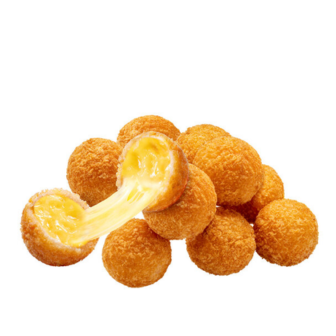
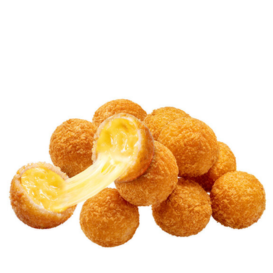
initials 6

Changed region(s): [[0.0293, 0.3223, 0.9963, 0.9084]]

diff --git a/index.html b/index.html
@@ -172,20 +172,20 @@
 					<!-- Slider-banner start -->
 					<div class="slider-banner">
 						<div class="single-banner banner-1">
-							<a class="banner-thumb" href="https://wa.me/+918652188668"><img src="img/product/1.png" alt="" /></a>
+							<a class="banner-thumb" href="https://wa.me/+918652188668"><img src="img/product/99.png" alt="" /></a>
 							<span class="pro-label new-label">new</span>
 							
 							<div class="banner-brief">
 								<h2 class="banner-title"><a href="#">Almonds</a></h2>
-								<p class="mb-0">Furniture</p>
+								<p class="mb-0"></p>
 							</div>
 							<a href="https://wa.me/+918652188668" class="button-one font-16px" data-text="Buy now">Buy now</a>
 						</div>
 						<div class="single-banner banner-2">
-							<a class="banner-thumb" href="https://wa.me/+918652188668"><img src="img/banner/1.jpg" alt="" /></a>
+							<a class="banner-thumb" href="https://wa.me/+918652188668"><img src="img/banner/1.png" alt="" /></a>
 							<div class="banner-brief">
-								<h2 class="banner-title"><a href="#">New Product 2021</a></h2>
-								<p class="hidden-md hidden-sm d-none d-md-block">Lorem Ipsum is simply dummy text of the printing and types sate industry. Lorem Ipsum has been the industry.</p>
+								<h2 class="banner-title"><a href="#">Cheese Balls</a></h2>
+								<p class="hidden-md hidden-sm d-none d-md-block"></p>
 								<a href="https://wa.me/+918652188668" class="button-one font-16px" data-text="Buy now">Buy now</a>
 							</div>
 						</div>
@@ -424,14 +424,14 @@
 								<div class="discount-product">
 									<img src="img/discount/1.png" alt="" />
 									<div class="discount-img-brief">
-										<div class="onsale">
-											<span class="onsale-text">On Sale</span>
+										<div 
+											class=""></span>
 											
 										</div>
 										<div class="discount-info">
-											<h1 class="text-dark-red d-none d-md-block">Discount 50%</h1>
+											<h1 class="text-dark-red d-none d-md-block"></h1>
 											
-											<a href="https://wa.me/+918652188668" class="button-one font-16px style-3 text-uppercase mt-md-5" data-text="Buy now">Buy now</a>
+											<a href="https://wa.me/+918652188668"  data-text=""></a>
 										</div>
 									</div>
 								</div>
@@ -442,14 +442,14 @@
 								<div class="discount-product">
 									<img src="img/discount/2.png" alt="" />
 									<div class="discount-img-brief">
-										<div class="onsale">
-											<span class="onsale-text">On Sale</span>
+										<div >
+											
 											
 										</div>
 										<div class="discount-info">
-											<h1 class="text-dark-red d-none d-md-block">Discount 50%</h1>
+											<h1 class="text-dark-red d-none d-md-block"></h1>
 											
-											<a href="https://wa.me/+918652188668" class="button-one font-16px style-3 text-uppercase mt-md-5" data-text="Buy now">Buy now</a>
+											<a href="https://wa.me/+918652188668"  data-text="Buy now"></a>
 										</div>
 									</div>
 								</div>
@@ -460,14 +460,14 @@
 								<div class="discount-product">
 									<img src="img/discount/3.jpg" alt="" />
 									<div class="discount-img-brief">
-										<div class="onsale">
-											<span class="onsale-text">On Sale</span>
+										<div class="">
+											<span class=""></span>
 					
 										</div>
-										<div class="discount-info">
-											<h1 class="text-dark-red d-none d-md-block">Discount 50%</h1>
+										<div >
+											
 					
-											<a href="https://wa.me/+918652188668" class="button-one font-16px style-3 text-uppercase mt-md-5" data-text="Buy now">Buy now</a>
+											<a href="https://wa.me/+918652188668"  data-text="Buy now"></a>
 										</div>
 									</div>
 								</div>
@@ -478,14 +478,14 @@
 								<div class="discount-product">
 									<img src="img/discount/4.jpg" alt="" />
 									<div class="discount-img-brief">
-										<div class="onsale">
-											<span class="onsale-text">On Sale</span>
+										<div class="">
+											<span class="onsale-text"></span>
 					
 										</div>
-										<div class="discount-info">
-											<h1 class="text-dark-red d-none d-md-block">Discount 50%</h1>
+										<div class="">
+											<h1 class=""></h1>
 					
-											<a href="https://wa.me/+918652188668" class="button-one font-16px style-3 text-uppercase mt-md-5" data-text="Buy now">Buy now</a>
+											<a href="https://wa.me/+918652188668"  data-text=""></a>
 										</div>
 									</div>
 								</div>
@@ -1089,7 +1089,7 @@
 									<h3 class="footer-title  title-border">Contact Us</h3>
 									<ul class="footer-contact">
 										<li><span>Address :</span>Tripathi Bhavan Building, Krishna Kunj, 4,Aarey Rd, Piramal Nagar Goregaon West, Mumbai</li>
-										<li><span>Cell-Phone :</span>8652188668 / 9819792224 / 9082402981</li>
+										<li><span>Cell-Phone :</span>8652188668 / 9819792224 </li>
 									
 									</ul>
 								</div>

diff --git a/contact.html b/contact.html
@@ -142,31 +142,12 @@
 									<ul>
 										<li><a href="index.html">home</a>
 											<ul>
-												<li><a href="index.html">Home Version 1</a></li>
-												<li><a href="index-2.html">Home Version 2</a></li>
+												
 											</ul>
 										</li>
-										<li><a href="shop.html">products</a></li>
-										<li><a href="shop-sidebar.html">accesories</a></li>
-										<li><a href="shop-list.html">lookbook</a></li>
-										<li><a href="blog.html">blog</a></li>
-										<li><a href="#">pages</a>
+										
 											<ul>
-												<li><a href="shop.html">Shop</a></li>
-												<li><a href="shop-sidebar.html">Shop Sidebar</a></li>
-												<li><a href="shop-list.html">Shop List</a></li>
-												<li><a href="single-product.html">Single Product</a></li>
-												<li><a href="single-product-sidebar.html">Single Product Sidebar</a></li>
-												<li><a href="cart.html">Shopping Cart</a></li>
-												<li><a href="wishlist.html">Wishlist</a></li>
-												<li><a href="checkout.html">Checkout</a></li>
-												<li><a href="order.html">Order</a></li>
-												<li><a href="login.html">login / Registration</a></li>
-												<li><a href="my-account.html">My Account</a></li>
-												<li><a href="404.html">404</a></li>
-												<li><a href="blog.html">Blog</a></li>
-												<li><a href="single-blog.html">Single Blog</a></li>
-												<li><a href="single-blog-sidebar.html">Single Blog Sidebar</a></li>
+												
 												<li><a href="about.html">About Us</a></li>
 												<li><a href="contact.html">Contact</a></li>
 											</ul>
@@ -257,7 +238,7 @@
 									<h3 class="footer-title  title-border">Contact Us</h3>
 									<ul class="footer-contact">
 										<li><span>Address :</span>Tripathi Bhavan Building, Krishna Kunj, 4,Aarey Rd, Piramal Nagar Goregaon West, Mumbai</li>
-										<li><span>Cell-Phone :</span>8652188668 / 9819792224 / 9082402981</li>
+					<li><span>Cell-Phone :</span>8652188668 / 9819792224 / 9082402981</li>
 										
 									</ul>
 								</div>

diff --git a/about.html b/about.html
@@ -142,31 +142,12 @@
 									<ul>
 										<li><a href="index.html">home</a>
 											<ul>
-												<li><a href="index.html">Home Version 1</a></li>
-												<li><a href="index-2.html">Home Version 2</a></li>
+												
 											</ul>
 										</li>
-										<li><a href="shop.html">products</a></li>
-										<li><a href="shop-sidebar.html">accesories</a></li>
-										<li><a href="shop-list.html">lookbook</a></li>
-										<li><a href="blog.html">blog</a></li>
-										<li><a href="#">pages</a>
+										
 											<ul>
-												<li><a href="shop.html">Shop</a></li>
-												<li><a href="shop-sidebar.html">Shop Sidebar</a></li>
-												<li><a href="shop-list.html">Shop List</a></li>
-												<li><a href="single-product.html">Single Product</a></li>
-												<li><a href="single-product-sidebar.html">Single Product Sidebar</a></li>
-												<li><a href="cart.html">Shopping Cart</a></li>
-												<li><a href="wishlist.html">Wishlist</a></li>
-												<li><a href="checkout.html">Checkout</a></li>
-												<li><a href="order.html">Order</a></li>
-												<li><a href="login.html">login / Registration</a></li>
-												<li><a href="my-account.html">My Account</a></li>
-												<li><a href="404.html">404</a></li>
-												<li><a href="blog.html">Blog</a></li>
-												<li><a href="single-blog.html">Single Blog</a></li>
-												<li><a href="single-blog-sidebar.html">Single Blog Sidebar</a></li>
+												
 												<li><a href="about.html">About Us</a></li>
 												<li><a href="contact.html">Contact</a></li>
 											</ul>
@@ -245,7 +226,7 @@
 									<h3 class="footer-title  title-border">Contact Us</h3>
 									<ul class="footer-contact"> 
 										<li><span>Address :</span>Tripathi Bhavan Building, Krishna Kunj, 4,Aarey Rd, Piramal Nagar Goregaon West, Mumbai</li>
-										<li><span>Cell-Phone :</span>8652188668 / 9819792224 / 9082402981</li>
+										<li><span>Cell-Phone :</span>8652188668 / 9819792224 </li>
 										
 									</ul>
 								</div>
